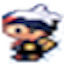
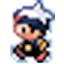
Resized images to be more appropriate sizes. Set resizeable window to false Wrote hasPlayer method in Tile class

diff --git a/src/Maze/Tile.java b/src/Maze/Tile.java
@@ -77,6 +77,15 @@ public abstract class Tile {
         }
     }
 
+    public boolean hasPlayer(){
+        for (Item i : items){
+            if (i instanceof Player){
+                return true;
+            }
+        }
+        return false;
+    }
+
     /** Checks if an Object is the same as (equals) this tile.
      * @param o The object that the tile is being compared to
      * @return Whether the object is the same as the tile

diff --git a/src/Maze/LevelBoard.java b/src/Maze/LevelBoard.java
@@ -75,10 +75,12 @@ public class LevelBoard {
     }
 
     public void replaceWithEmptyTile(Tile tile){
+
         board[tile.getRow()][tile.getCol()] = new FreeTile(tile.getRow(), tile.getCol());
         getPlayer().move(board[tile.getRow()][tile.getCol()]);
         //board[tile.getRow()][tile.getCol()].addItem(getPlayer());
         main.getFrame().getBoardpanel().updateBoard(); // TODO think about moving this
+
     }
 
 

diff --git a/src/Render/MainFrame.java b/src/Render/MainFrame.java
@@ -33,6 +33,7 @@ public class MainFrame extends JFrame implements KeyListener {
         pack();
         setVisible(true);
         repaint();
+        setResizable(false);
     }
 
     private void addBoardPanel(){

diff --git a/src/Maze/DoorTile.java b/src/Maze/DoorTile.java
@@ -68,6 +68,7 @@ public class DoorTile extends Tile {
                     }
                 }
             }
+
         }
     }
 
